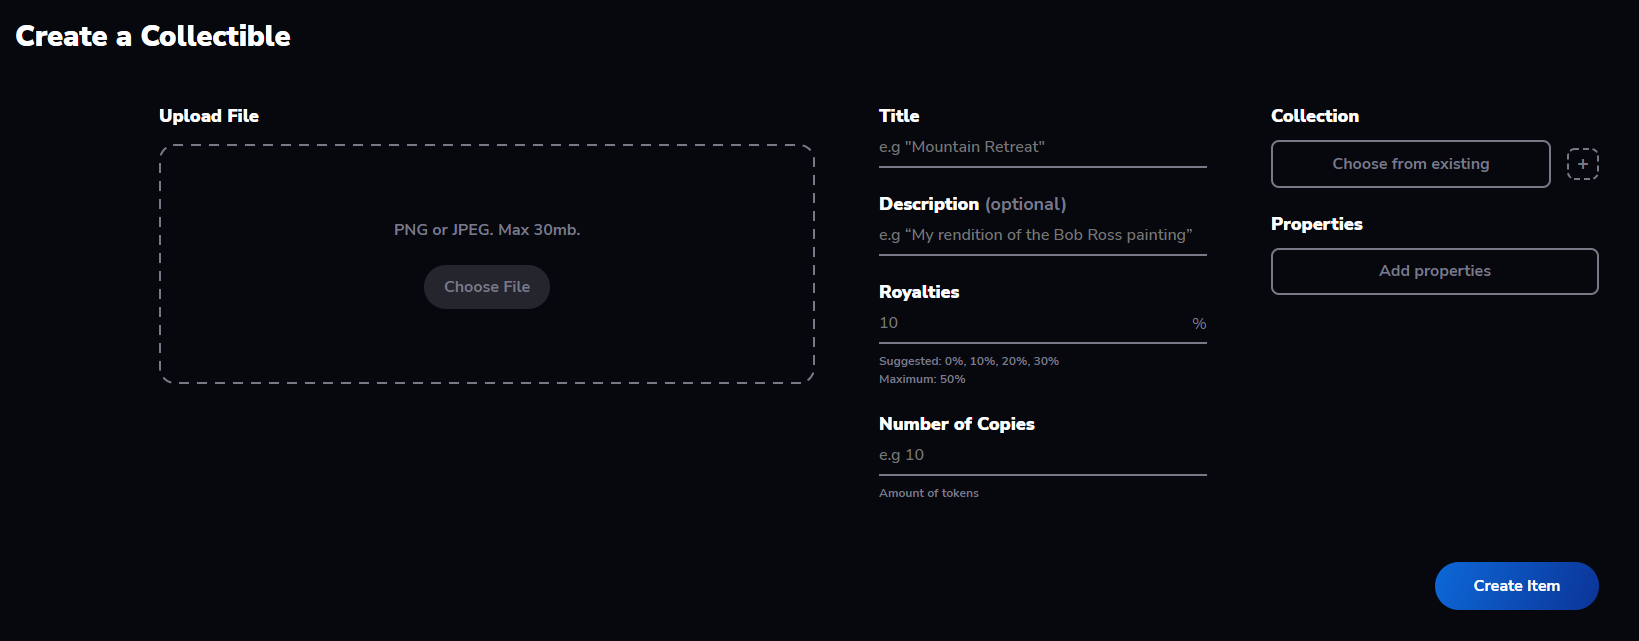
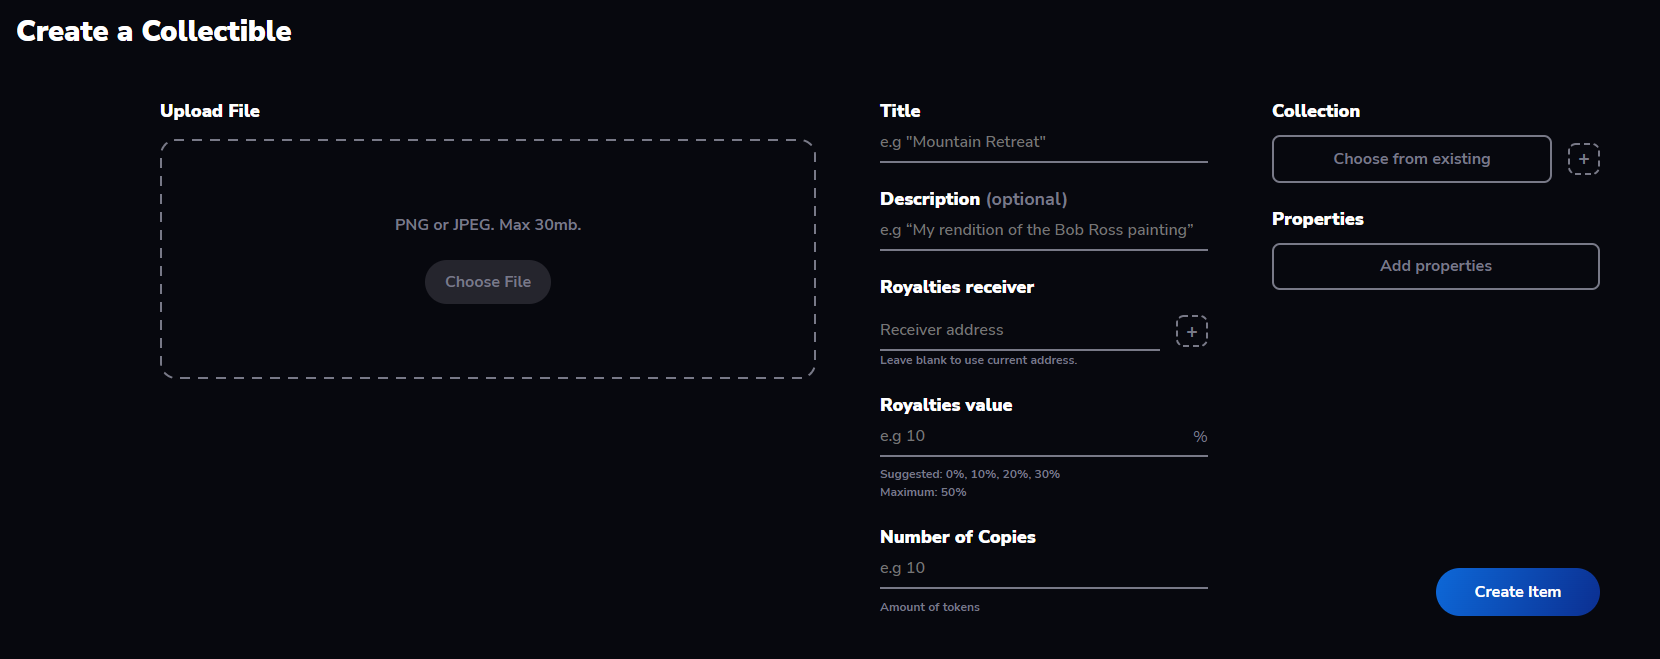
Royalties receiver

diff --git a/nfts/create.md b/nfts/create.md
@@ -15,7 +15,8 @@ To create a new collectible navigate to the **[Create page](https://sqwid.app/cr
 -   **Upload file**: You can upload a file of up to 30Mb. This file will be stored in IPFS and its URI referenced in your NFT. Notice that the Sqwid NFT and marketplace contracts are fully decentralized, so any content is allowed. However, inappropriate content (like pornography or unauthorized use of intellectual property) will not be shown in the front end of the marketplace for compliance reasons.
 -   **Title**: The name of your NFT.
 -   **Description**: A description for your NFT. Optional field.
--   **Royalties**: Value of the royalties in percentage. Can range from 0 to 50. The default value is 0. You can read more about how royalties work [here](./royalties.md#royalties).
+-   **Royalties receiver**: Address of the royalties receiver. If no address is specified, the active address will be used. Clicking on the "+" button will open a popup to create a payment splitter contract though the **Splitz** dAPP.
+-   **Royalties value**: Value of the royalties in percentage. Can range from 0 to 50. The default value is 0. You can read more about how royalties work [here](./royalties.md#royalties).
 -   **Number of Copies**: How many copies of your NFT you want to mint. The default value is 1.
 -   **Collection**: You can assign the NFT to one of your existing collections. You can also create a new collection from here. If the NFT is not assigned to any collection it will be included in the Sqwid collection.
 -   **Properties**: An optional list of key-value pairs for the properties of your NFT.
